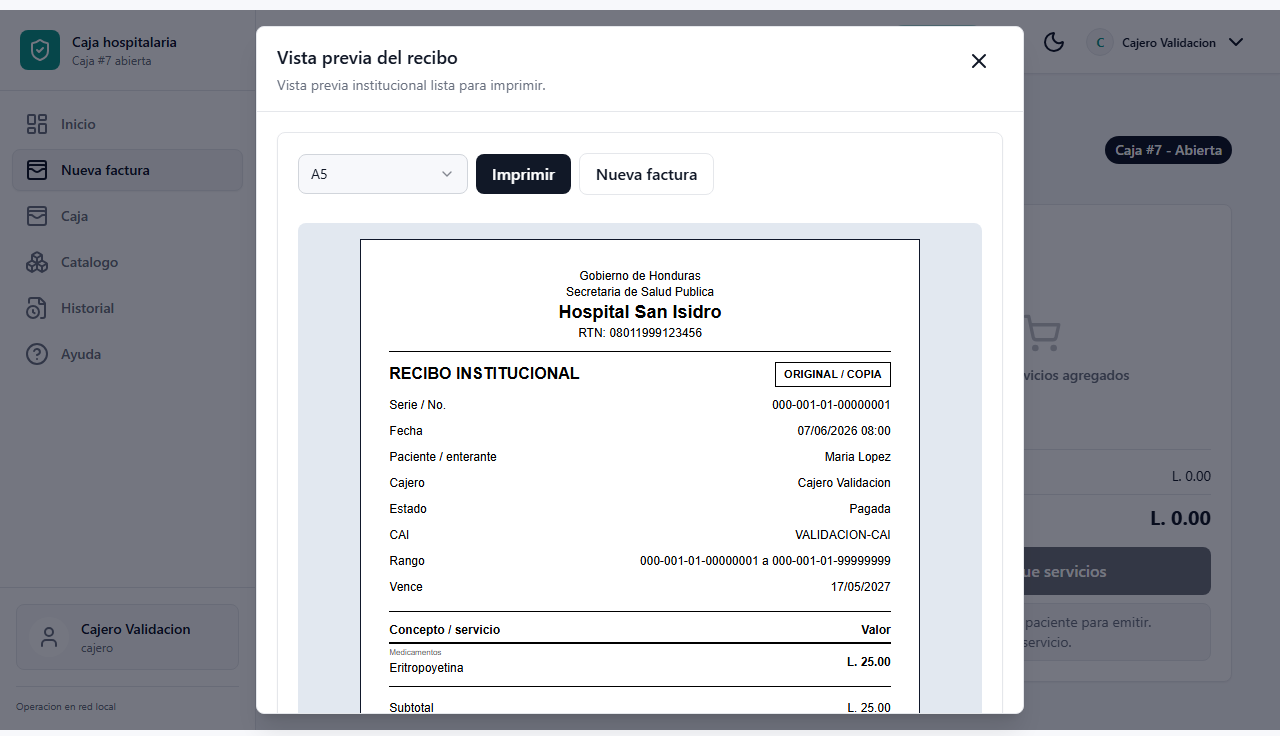
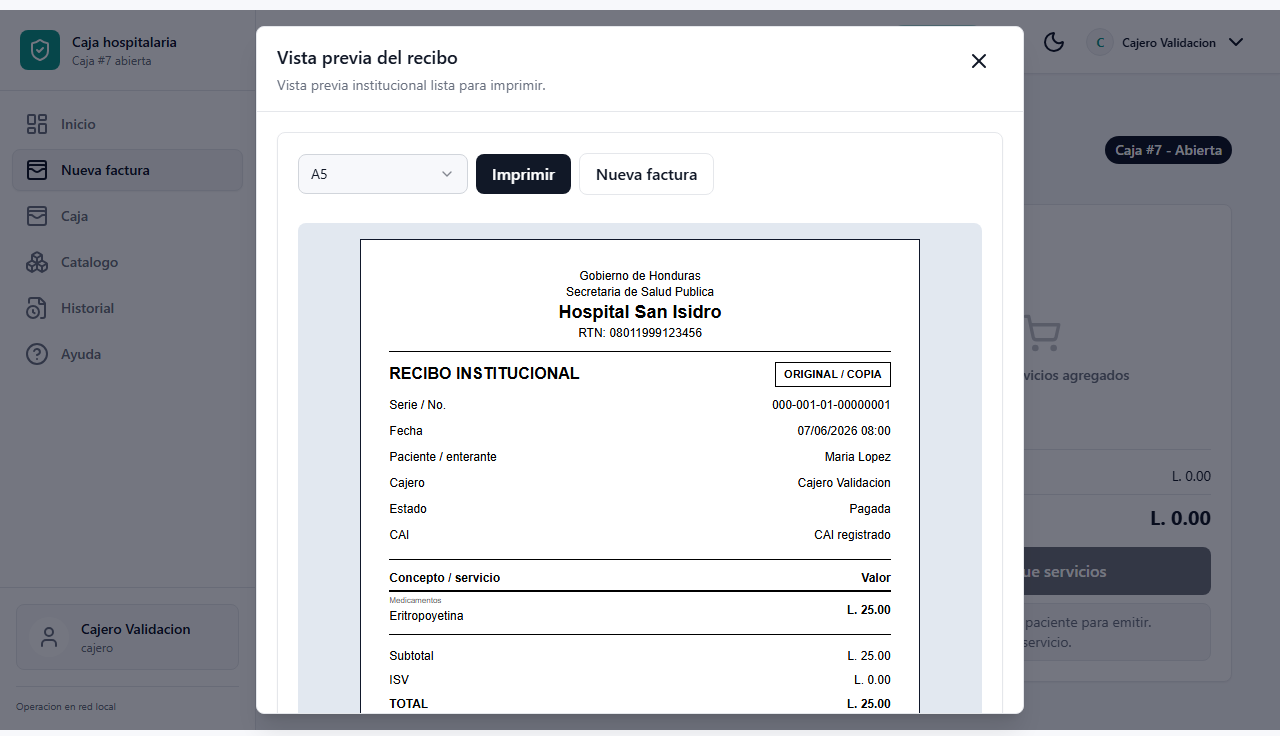
test(receipts): remove invented fiscal smoke data

Changed region(s): [[0.2812, 0.7188, 0.7188, 0.9688]]

diff --git a/frontend/src/features/invoices/NewInvoiceView.test.tsx b/frontend/src/features/invoices/NewInvoiceView.test.tsx
@@ -283,9 +283,9 @@ describe('NewInvoiceView', () => {
               width: 'half_letter',
               hospital: { name: 'Hospital San Isidro', rtn: '08011999123456' },
               fiscal: {
-                cai: 'VALIDACION-CAI',
-                authorized_range: '000-001-01-00000001 a 000-001-01-99999999',
-                valid_until: '2027-05-17',
+                cai: 'CAI registrado',
+                authorized_range: null,
+                valid_until: null,
               },
               invoice: { ...paidInvoice, cashier: 'Cajero Validacion' },
               items: [
@@ -746,8 +746,8 @@ describe('NewInvoiceView', () => {
                 hospital: { name: 'Hospital San Isidro', rtn: '08011999123456' },
                 fiscal: {
                   cai: 'TEST-CAI',
-                  authorized_range: '000-001-01-00000001 a 000-001-01-99999999',
-                  valid_until: '2027-05-17',
+                  authorized_range: null,
+                  valid_until: null,
                 },
                 invoice: {
                   id: 100,
@@ -781,8 +781,8 @@ describe('NewInvoiceView', () => {
                 hospital: { name: 'Hospital San Isidro', rtn: '08011999123456' },
                 fiscal: {
                   cai: 'TEST-CAI',
-                  authorized_range: '000-001-01-00000001 a 000-001-01-99999999',
-                  valid_until: '2027-05-17',
+                  authorized_range: null,
+                  valid_until: null,
                 },
                 invoice: {
                   id: 100,
@@ -1122,8 +1122,8 @@ describe('NewInvoiceView', () => {
       width: '80mm' as unknown as ReceiptData['width'],
       hospital: { name: 'Hospital San Isidro', rtn: '08011999123456' },
       fiscal: {
-        cai: 'VALIDACION-CAI',
-        authorized_range: '000-001-01-00000001 a 000-001-01-99999999',
+        cai: 'CAI registrado',
+        authorized_range: null,
         valid_until: '2027-05-17',
       },
       invoice: {

diff --git a/frontend/e2e/production-readiness.spec.ts b/frontend/e2e/production-readiness.spec.ts
@@ -692,9 +692,9 @@ function receiptFor(invoice: Record<string, unknown>, width: string) {
     width,
     hospital: { name: 'Hospital San Isidro', rtn: '08011999123456' },
     fiscal: {
-      cai: 'VALIDACION-CAI',
-      authorized_range: '000-001-01-00000001 a 000-001-01-99999999',
-      valid_until: '2027-05-17',
+      cai: 'CAI registrado',
+      authorized_range: null,
+      valid_until: null,
     },
     invoice: {
       id: invoice.id,

diff --git a/frontend/src/lib/shortcuts.ts b/frontend/src/lib/shortcuts.ts
@@ -41,7 +41,7 @@ export const KEYBOARD_SHORTCUTS: ShortcutEntry[] = [
   {
     key: 'F6',
     scope: 'pos',
-    description: 'Foco en el campo de escaneo de codigos de barra o QR.',
+    description: 'Foco en el campo de codigo escaneable cuando este habilitado por administracion.',
   },
   {
     key: 'Enter',

diff --git a/backend/tests/Feature/DevelopmentValidationSeederTest.php b/backend/tests/Feature/DevelopmentValidationSeederTest.php
@@ -50,7 +50,7 @@ class DevelopmentValidationSeederTest extends TestCase
             FiscalSequence::query()
                 ->where('document_type', 'invoice')
                 ->where('prefix', '000-001-01')
-                ->where('cai', 'VALIDACION-CAI')
+                ->where('cai', 'CAI registrado')
                 ->exists(),
         );
     }

diff --git a/backend/database/seeders/DevelopmentValidationSeeder.php b/backend/database/seeders/DevelopmentValidationSeeder.php
@@ -80,7 +80,7 @@ class DevelopmentValidationSeeder extends Seeder
             [
                 'document_type' => 'invoice',
                 'prefix' => '000-001-01',
-                'cai' => 'VALIDACION-CAI',
+                'cai' => 'CAI registrado',
             ],
         );
 

diff --git a/docs/DECISIONS.md b/docs/DECISIONS.md
@@ -3662,3 +3662,9 @@ La evidencia visual de Respaldos mostro que varios avisos de carga y exito podia
 El wrapper notify limita la cola general a tres avisos y App usa notify.status con un id fijo para que los mensajes operativos se reemplacen entre si.
 La captura qa/browser-smoke-2026-06-07/backups-pending-light.png confirma que queda un solo aviso visible y las acciones principales permanecen accesibles.
 Validacion: vitest toaster/App, typecheck, browser smoke mockeado con capturas y validate_browser_smoke_evidence.ps1.
+
+## 2026-06-07 - evidencia de recibo mockeado no muestra CAI ni rango inventado
+El browser smoke 2026-06-07 dejo de usar el marcador CAI de validacion heredado y ya no muestra rango fiscal ni vencimiento inventados en las capturas de recibo.
+El mock conserva CAI registrado como marcador neutral para probar la plantilla sin declarar cumplimiento fiscal real ni sustituir configuracion autorizada del hospital.
+check-branding ahora bloquea el marcador CAI de validacion heredado en superficies de entrega para evitar que vuelva a aparecer en seeders, pruebas visibles o evidencia QA.
+Validacion: vitest NewInvoiceView/shortcuts, php artisan test --filter=DevelopmentValidationSeederTest, check-branding y browser smoke mockeado con capturas.

diff --git a/qa/BROWSER_SMOKE_EVIDENCE_2026_06_07.md b/qa/BROWSER_SMOKE_EVIDENCE_2026_06_07.md
@@ -25,6 +25,7 @@ Observed result:
 - The JSON report records `mode: mocked-e2e`, `console_issues: []` and the explicit note that captures do not replace LAN, MySQL/MariaDB or physical printer proof.
 - Screenshots were captured for dashboard light/dark, cashbox open, new invoice empty/cart, receipt media carta/carta/A5/dark, reports and backups.
 - Visual review of `qa\browser-smoke-2026-06-07\backups-pending-light.png` confirmed only one status notice remains visible and the primary backup actions are no longer covered.
+- Visual review of `qa\browser-smoke-2026-06-07\receipt-preview-dark.png` confirmed the mocked receipt no longer shows the old validation CAI marker, an invented fiscal range or an invented expiration date.
 
 Safety notes:
 
